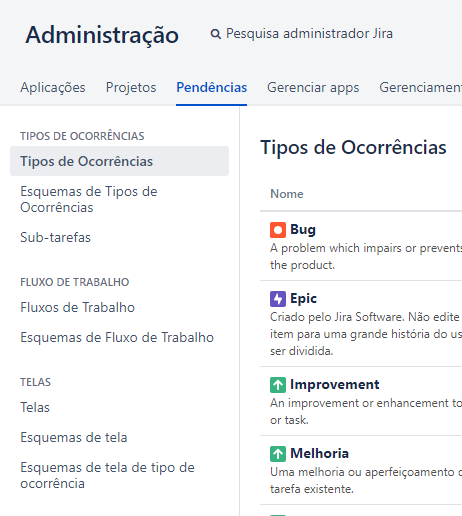
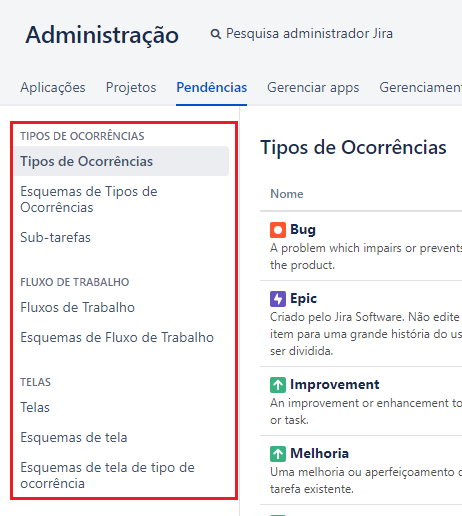
README /doc/printscreen

Changed region(s): [[0.0, 0.2171, 0.5152, 0.9922]]

diff --git a/doc/README-Config-Jira.md b/doc/README-Config-Jira.md
@@ -6,7 +6,7 @@ Guia de Configuração da ferramenta Jira para o projeto [Jira RPA aaS](../READM
 * [Passo a Passo](#1-passo-a-passo)
   * [Passo a Passo](#1-passo-a-passo)
     * [Criar Projeto](#11-criar-projeto)
-  * 
+  * [ Configurar Tipos de Ocorrências para as pendências do projeto](#12-configurar-tipos-de-ocorrências-para-as-pendências-do-projeto)
 # 1. Passo a Passo
 
 ## 1.1. Criar Projeto
@@ -56,26 +56,6 @@ Guia de Configuração da ferramenta Jira para o projeto [Jira RPA aaS](../READM
 
 ![Config-Jira-AdminPendenciaConfigurarEsquemaDeTipoDeOcorrencia-02.png](printscreen/Config-Jira-AdminPendenciaConfigurarEsquemaDeTipoDeOcorrencia-02.png)
 ![Config-Jira-AdminPendenciaConfigurarEsquemaDeTipoDeOcorrencia-03.png](printscreen/Config-Jira-AdminPendenciaConfigurarEsquemaDeTipoDeOcorrencia-03.png)
-
-
----
-
-* No menu superior principal clique no link do item de menu `Administração >> Pojetos` e em seguida clique no link do nome do projeto `RPA`
-
-![Config-Jira-AdminProjetos-01.png](printscreen/Config-Jira-AdminProjetos-01.png)
-
-* Na página de `Configurações do Projeto` no sub-menu `Resumo` observar os itens do `sub-menu de Configurações de Projeto`
-
-![Config-Jira-ConfigProjeto-01.png](printscreen/Config-Jira-ConfigProjeto-01.png)
-![Config-Jira-ConfigProjeto-01.png](printscreen/Config-Jira-ConfigProjeto-01.png)
-
-* Na página de `Configurações do Projeto` no sub-menu `Resumo` clicar no item do sub-menu `Tipos de Ocorrências`
-
-* Na página de `Configurações do Projeto` no sub-menu `Tipos de Ocorrências` clicar no botão `Ações` e em seguida no sub-item  `Use um esquema diferente`
-
-![Config-Jira-ConfigTipoOcorrencia-01.png](printscreen/Config-Jira-ConfigTipoOcorrencia-01.png)
-
-* Na página de administração de projeto `Selecione Esquema Tipo Issue para o projeto` escolha a opção ``
 
 
 ---
